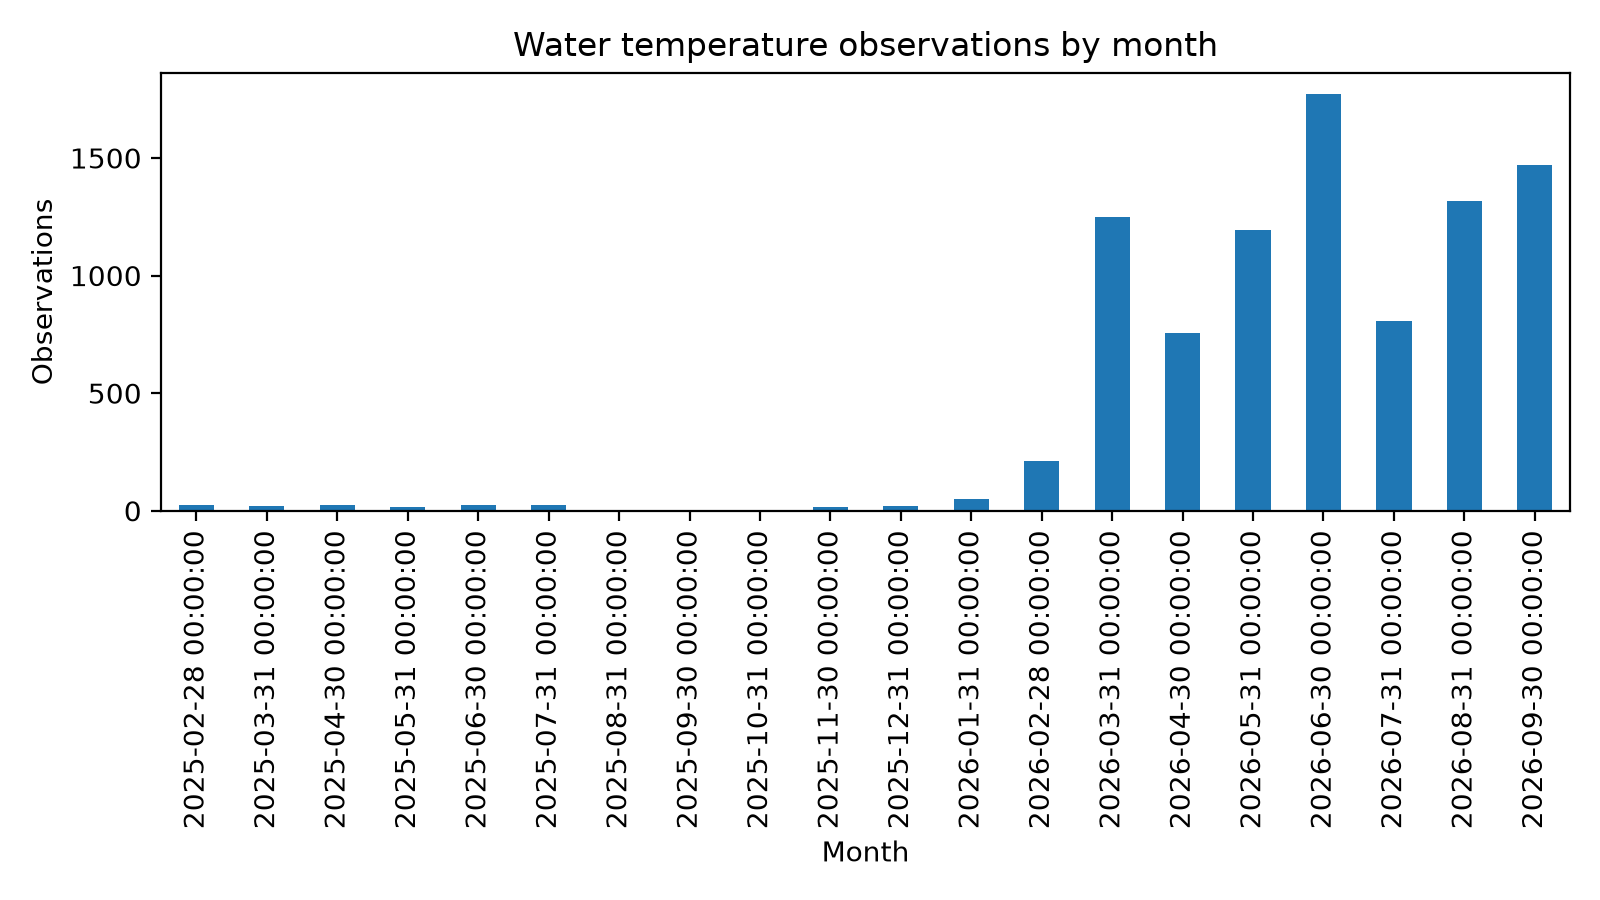
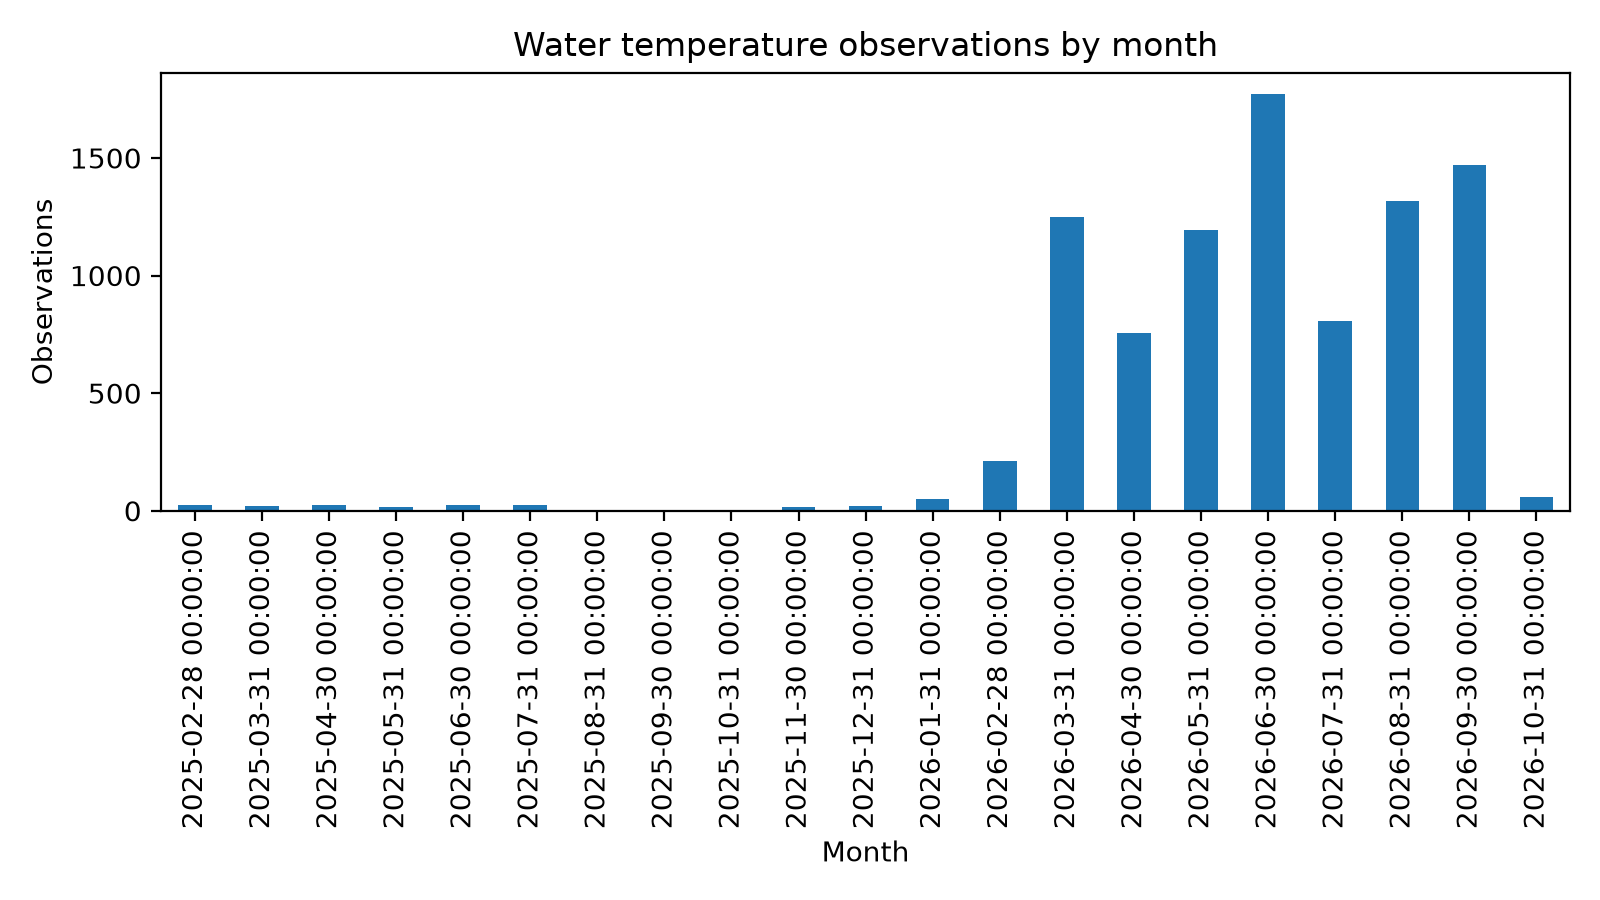
Add Apple Health merge step for smartwatch data and ipdate smartwatch report

diff --git a/smartwatch.html b/smartwatch.html
@@ -65,12 +65,12 @@ a {
 <h2>Dataset overview</h2>
 <table>
 <tr><th>Metric</th><th>Value</th></tr>
-<tr><td>Raw water temperature observations</td><td>9,005</td></tr>
-<tr><td>Observation period</td><td>2025-02-14 to 2026-09-28</td></tr>
-<tr><td>Sessions using 30-minute gap rule</td><td>307</td></tr>
+<tr><td>Raw water temperature observations</td><td>9,064</td></tr>
+<tr><td>Observation period</td><td>2025-02-14 to 2026-10-01</td></tr>
+<tr><td>Sessions using 30-minute gap rule</td><td>308</td></tr>
 <tr><td>Single-observation sessions</td><td>134</td></tr>
 <tr><td>Short sessions, 2–4 readings</td><td>12</td></tr>
-<tr><td>Continuous sessions, 5+ readings</td><td>161</td></tr>
+<tr><td>Continuous sessions, 5+ readings</td><td>162</td></tr>
 </table>
 </div>
 
@@ -78,16 +78,16 @@ a {
 <h2>Key findings</h2>
 
 <ul>
-<li><strong>9,005</strong> smartwatch water temperature observations were analysed.</li>
-<li>These observations formed <strong>307</strong> swim sessions using a 30-minute gap rule.</li>
-<li><strong>161 sessions (52.4%)</strong> contained five or more readings and provide sufficient observations to investigate stable temperature plateau detection. </li>
+<li><strong>9,064</strong> smartwatch water temperature observations were analysed.</li>
+<li>These observations formed <strong>308</strong> swim sessions using a 30-minute gap rule.</li>
+<li><strong>162 sessions (52.6%)</strong> contained five or more readings and provide sufficient observations to investigate stable temperature plateau detection. </li>
 <li>The median sampling interval was <strong>17.0 seconds</strong>, providing high temporal resolution within sessions.</li>
 <li>The data support deriving <strong>one representative temperature per swim session</strong>, rather than treating observations as independent temperature measurements.</li>
 </ul>
 
 <table>
 <tr><th>Finding</th><th>Value</th></tr>
-<tr><td>Average readings per session</td><td>29.3</td></tr>
+<tr><td>Average readings per session</td><td>29.4</td></tr>
 <tr><td>Readings ≥20°C</td><td>377 (4.2%)</td></tr>
 <tr><td>Readings ≥25°C</td><td>160 (1.8%)</td></tr>
 </table>
@@ -112,7 +112,7 @@ a {
 <table>
 <tr><th>Metric</th><th>Value</th></tr>
 <tr><td>Median sampling interval</td><td>17.0 seconds</td></tr>
-<tr><td>Within-session intervals</td><td>8,698</td></tr>
+<tr><td>Within-session intervals</td><td>8,756</td></tr>
 </table>
 <img src="reports/charts/sampling_intervals.png" alt="Sampling interval distribution">
 </div>
@@ -122,8 +122,8 @@ a {
 
 <table>
 <tr><th>Metric</th><th>Value</th></tr>
-<tr><td>Median duration</td><td>6.9 minutes</td></tr>
-<tr><td>75th percentile</td><td>19.9 minutes</td></tr>
+<tr><td>Median duration</td><td>7.0 minutes</td></tr>
+<tr><td>75th percentile</td><td>20.0 minutes</td></tr>
 <tr><td>95th percentile</td><td>31.9 minutes</td></tr>
 </table>
 
@@ -168,14 +168,14 @@ above are excluded before this analysis.
 
 <table>
 <tr><th>Metric</th><th>Value</th></tr>
-<tr><td>Sessions analysed for stability</td><td>157</td></tr>
-<tr><td>Sessions with provisional stable window</td><td>132 (84.1%)</td></tr>
+<tr><td>Sessions analysed for stability</td><td>158</td></tr>
+<tr><td>Sessions with provisional stable window</td><td>133 (84.2%)</td></tr>
 <tr><td>Median time to first stable window</td><td>2.8 minutes</td></tr>
 <tr><td>75th percentile time to stability</td><td>5.8 minutes</td></tr>
 <tr><td>90th percentile time to stability</td><td>8.8 minutes</td></tr>
-<tr><td>Median rolling 5-reading range</td><td>0.25°C</td></tr>
-<tr><td>75th percentile rolling range</td><td>0.60°C</td></tr>
-<tr><td>90th percentile rolling range</td><td>1.59°C</td></tr>
+<tr><td>Median rolling 5-reading range</td><td>0.23°C</td></tr>
+<tr><td>75th percentile rolling range</td><td>0.50°C</td></tr>
+<tr><td>90th percentile rolling range</td><td>1.48°C</td></tr>
 </table>
 
 <img src="reports/charts/first_stable_minute.png" alt="Time to first stable temperature window">
